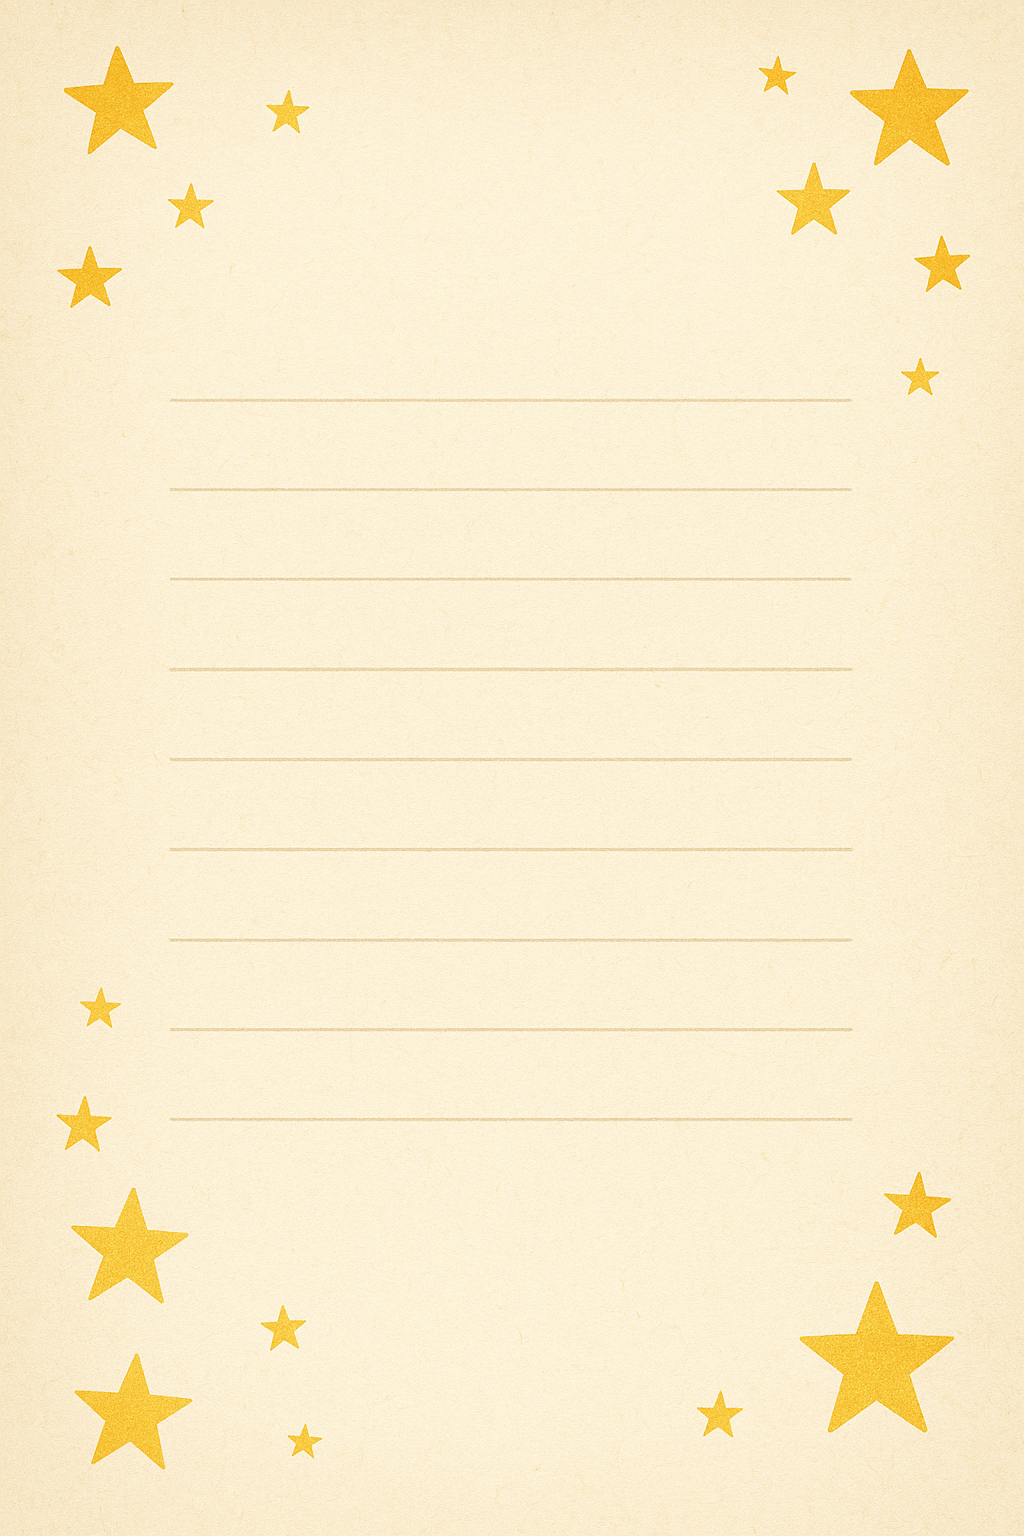
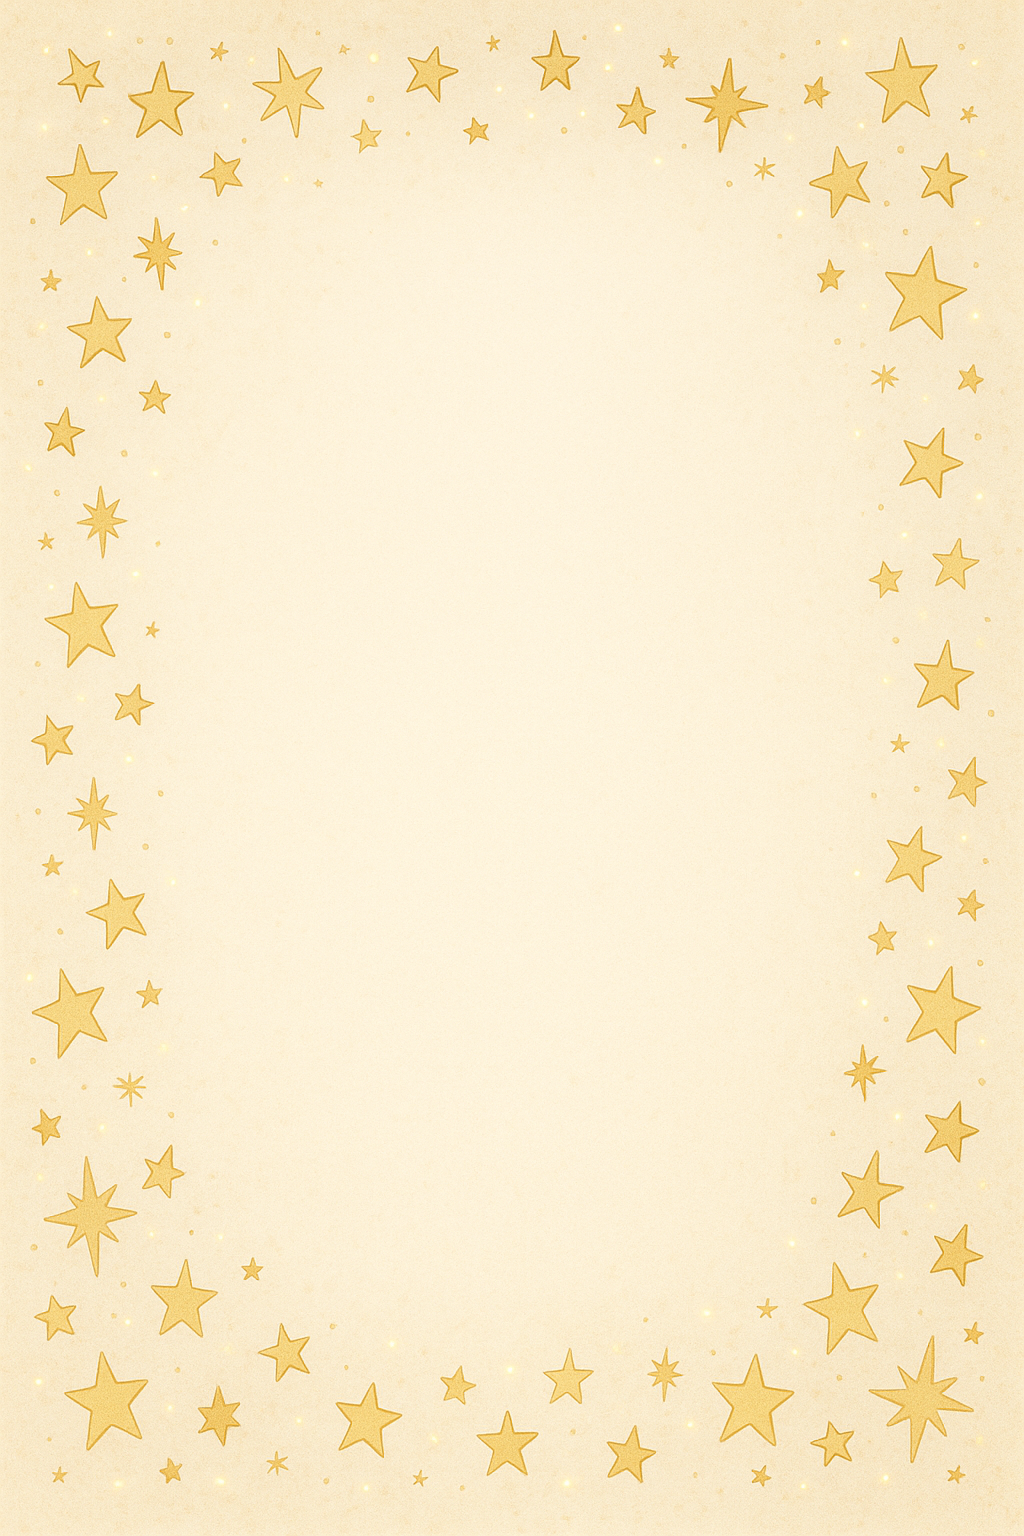
最終
発表後更新

diff --git a/app/models/player.rb b/app/models/player.rb
@@ -57,7 +57,7 @@ class Player < ApplicationRecord
     bg_img  = MiniMagick::Image.open(bg_path.to_s)
     av_img  = MiniMagick::Image.open(avatar_temp.path)
 
-    av_img.resize '400x400'
+    av_img.resize '922x1382'
 
     result = bg_img.composite(av_img) do |c|
       c.gravity 'center'
@@ -98,7 +98,7 @@ class Player < ApplicationRecord
       - 最後は必ず「ルナリアより」で締める
       - 文体はやさしくて少し切ない感じ
       - 絵文字・顔文字は使わない
-      - 全体で 400〜600 文字程度
+      - 全体で 400〜500 文字程度
       - 段落ごとに改行して読みやすくする
     SYS
 
@@ -142,6 +142,8 @@ class Player < ApplicationRecord
       FALLBACK
     end
 
+    letter_body = wrap_letter_text(letter_body, limit: 16)
+
     # 便箋
     bg_path = Rails.root.join('app', 'assets', 'images', 'gifts', 'letter_bg.png')
     unless File.exist?(bg_path)
@@ -159,7 +161,6 @@ class Player < ApplicationRecord
       letter_body
       .gsub('\\', '\\\\\\') # バックスラッシュ
       .gsub("'",  "\\\\'")  # シングルクォート
-      .gsub("\n", '\\n')    # 改行（ImageMagick 用）
 
     font_candidates = [
       '/System/Library/Fonts/ヒラギノ角ゴシック W3.ttc',
@@ -172,10 +173,11 @@ class Player < ApplicationRecord
 
     image.combine_options do |c|
       c.gravity   'NorthWest'
-      c.pointsize 28
-      c.fill      'white'
+      c.pointsize 24
+      c.fill      '#8B5A2B'
       c.font font_path if font_path
-      c.draw "text 80,180 '#{draw_text}'"
+      c.interline_spacing 10
+      c.draw "text 330,200 '#{draw_text}'"
     end
 
     image.write(out_path.to_s)
@@ -210,5 +212,21 @@ class Player < ApplicationRecord
       filename: "player_#{id}_letter.png",
       content_type: 'image/png'
     )
+  end
+
+  # 全角ベースで n 文字ごとに折り返す簡易ラッパ
+  def wrap_letter_text(text, limit: 16)
+    paragraphs = text.split(/\n+/) # 空行ごとの段落
+
+    wrapped = paragraphs.map do |para|
+      chars = para.chars
+      lines = []
+
+      lines << chars.shift(limit).join while chars.any?
+
+      lines.join("\n")
+    end
+
+    wrapped.join("\n\n") # 段落の間は 1 行空ける
   end
 end

diff --git a/app/controllers/stories_controller.rb b/app/controllers/stories_controller.rb
@@ -30,7 +30,7 @@ class StoriesController < ApplicationController
         last_npc['content']
       else
         "はじめまして、#{@player.name_kana}。これから何問か質問をするね。気楽に答えてほしい。
-        あなたを一言で表すと？"
+        あなたを一言で表すと？（例：私は冒険が大好きな勇敢な人です。）"
       end
   end
 
